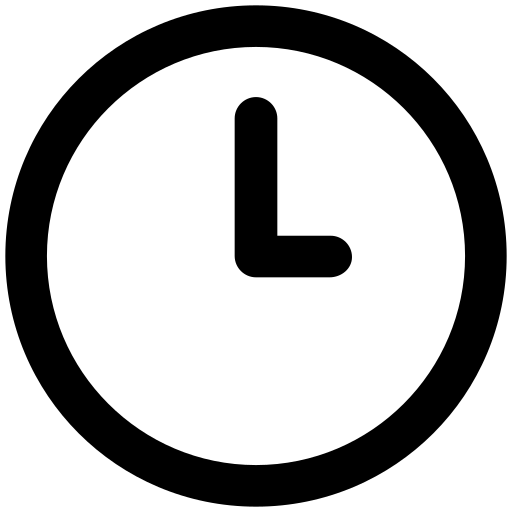
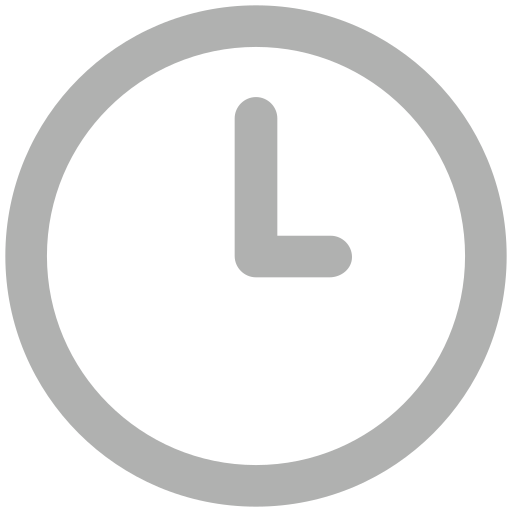
fix: handling active and non active 🔨

Changed region(s): [[0.0, 0.0, 1.0, 1.0], [0.4375, 0.1875, 0.6875, 0.5625]]

diff --git a/components/Layout/Sidebar.vue b/components/Layout/Sidebar.vue
@@ -5,58 +5,51 @@
     </v-layout>
 
     <v-list class="list" dense>
-      <v-list-item>
-        <div class="menu-container">
-          <div class="flex">
-            <img
-              class="menu-icon"
-              src="/menu/dashboard.png"
-              alt="dashboard icon"
-            />
+      <template v-for="(menu, index) in store.datas">
+        <v-list-item
+          :key="index"
+          :class="menu.name === 'setting' && 'relative-setting'"
+        >
+          <div
+            class="menu-container"
+            :class="{ 'menu-active': menu.active }"
+            @click="handleRoute(menu.url, index)"
+          >
+            <div class="flex">
+              <img
+                class="menu-icon"
+                :src="menu.img + `${menu.active ? '-active.png' : '.png'}`"
+                :alt="menu.name + ' icon'"
+              />
+            </div>
+            <p class="menu-name">{{ menu.name }}</p>
           </div>
-          <p class="menu-name">Home</p>
-        </div>
-      </v-list-item>
-      <v-list-item>
-        <div class="menu-container">
-          <div class="flex">
-            <img class="menu-icon" src="/menu/order.png" alt="order icon" />
-          </div>
-          <p class="menu-name">Order</p>
-        </div>
-      </v-list-item>
-      <v-list-item>
-        <div class="menu-container">
-          <div class="flex">
-            <img class="menu-icon" src="/menu/history.png" alt="history icon" />
-          </div>
-          <p class="menu-name">History</p>
-        </div>
-      </v-list-item>
-      <v-list-item>
-        <div class="menu-container">
-          <div class="flex">
-            <img class="menu-icon" src="/menu/profile.png" alt="profile icon" />
-          </div>
-          <p class="menu-name">Profile</p>
-        </div>
-      </v-list-item>
-      <v-list-item class="relative-setting">
-        <div class="menu-container">
-          <div class="flex">
-            <img class="menu-icon" src="/menu/setting.png" alt="setting icon" />
-          </div>
-          <p class="menu-name">Setting</p>
-        </div>
-      </v-list-item>
+        </v-list-item>
+      </template>
     </v-list>
   </v-navigation-drawer>
 </template>
 
 <script>
+import { useMenuStore } from '@/store/menu'
 export default {
   name: 'SidebarLayout',
-  computed: {},
-  methods: {},
+  setup() {
+    const store = useMenuStore()
+
+    return { store }
+  },
+  mounted() {
+    this.loadMenu()
+  },
+  methods: {
+    loadMenu() {
+      this.store.menu()
+    },
+    handleRoute(url, index) {
+      this.store.setActive(index)
+      this.$router.push(url)
+    },
+  },
 }
 </script>

diff --git a/store/menu/index.js b/store/menu/index.js
@@ -1,0 +1,79 @@
+import { defineStore } from 'pinia'
+
+export const useMenuStore = defineStore('menu', {
+  state: () => ({
+    datas: null,
+    message: null,
+
+    loading: false,
+    code: 0,
+  }),
+  getters: {},
+  actions: {
+    menu() {
+      const dataMenu = [
+        {
+          id: 1,
+          name: 'home',
+          url: 'home',
+          img: '/menu/home',
+          active: false,
+        },
+        {
+          id: 2,
+          name: 'order',
+          url: 'order',
+          img: '/menu/order',
+          active: false,
+        },
+        {
+          id: 3,
+          name: 'history',
+          url: 'history',
+          img: '/menu/history',
+          active: false,
+        },
+        {
+          id: 4,
+          name: 'profile',
+          url: 'profile',
+          img: '/menu/profile',
+          active: false,
+        },
+        {
+          id: 5,
+          name: 'setting',
+          url: 'setting',
+          img: '/menu/setting',
+          active: false,
+        },
+      ]
+
+      const vanillaMenu = dataMenu.reduce((result, menu) => {
+        if (menu.name === this.$nuxt.route.name) menu.active = true
+        result.push(menu)
+
+        return result
+      }, [])
+
+      this.datas = vanillaMenu
+
+      return true
+    },
+    setActive(params) {
+      const dataMenu = JSON.parse(JSON.stringify(this.datas))
+
+      const vanillaMenu = dataMenu.reduce((result, menu) => {
+        menu.active = false
+        result.push(menu)
+
+        return result
+      }, [])
+
+      vanillaMenu[params].active = true
+      this.datas = vanillaMenu
+
+      return true
+    },
+  },
+})

diff --git a/assets/scss/layouts/default.scss b/assets/scss/layouts/default.scss
@@ -53,11 +53,22 @@
     margin-top: 0.2rem;
     text-align: center;
     font-size: 12px;
+    color: #b0b1b0;
+  }
+
+}
+
+.menu-active {
+  background-color: #714333;
+  border-radius: 0.8rem;
+
+  .menu-name{
+    color: white;
   }
 }
 
+
 .menu-container:hover{
-  color: white;
   background-color: #714333;
   border-radius: 0.8rem;
  }

diff --git a/pages/home/index.vue b/pages/home/index.vue
@@ -1,9 +1,9 @@
 <template>
-  <div>PROFILE</div>
+  <div>HOME DASHBOARD</div>
 </template>
 
 <script>
 export default {
-  name: 'ProfilePage',
+  name: 'HomePage',
 }
 </script>

diff --git a/pages/setting/index.vue b/pages/setting/index.vue
@@ -1,9 +1,9 @@
 <template>
-  <div>PROFILE</div>
+  <div>SETTING</div>
 </template>
 
 <script>
 export default {
-  name: 'ProfilePage',
+  name: 'SettingPage',
 }
 </script>

diff --git a/pages/order/index.vue b/pages/order/index.vue
@@ -4,6 +4,6 @@
 
 <script>
 export default {
-  name: 'ProfilePage',
+  name: 'OrderPage',
 }
 </script>
